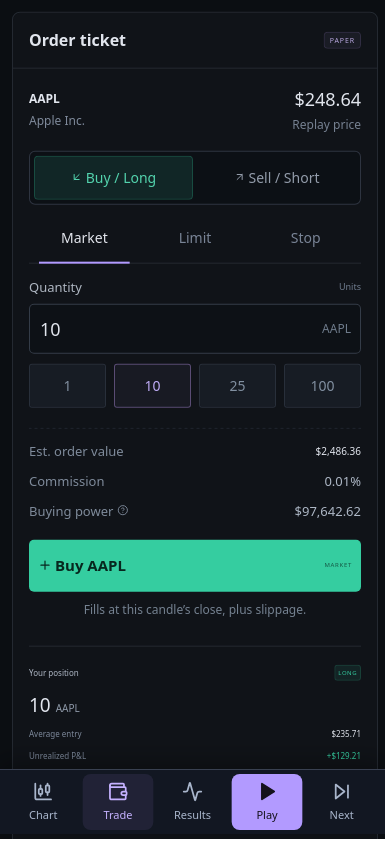
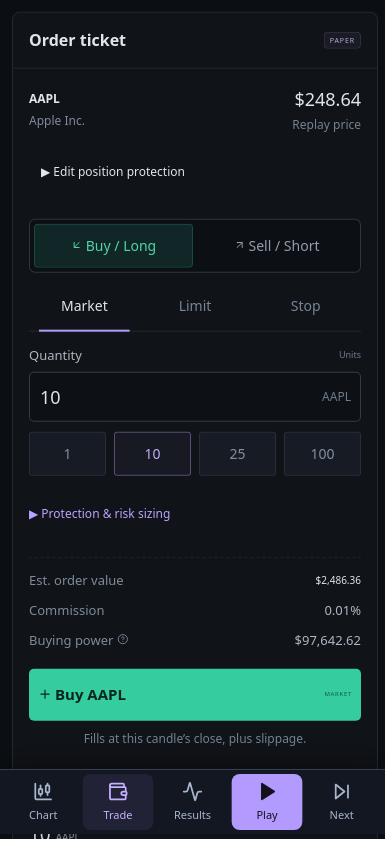
Document practice and live workflows with updated screenshots

diff --git a/docs/practice-and-live.md b/docs/practice-and-live.md
@@ -1,0 +1,57 @@
+# Practice, research and live workspaces
+
+Open **Practice & research** above the chart to access Sessions, Journal, Analytics, Blind and Strategies. The existing replay ticket, indicators, comparisons and drawing tools remain available on the main workspace.
+
+## Protected orders and position sizing
+
+Expand **Protection & risk sizing** in the order ticket. Choose a stop-loss and/or take-profit, expressed as price or a percentage; targets can also use a risk multiple. Manual quantity remains available. Cash-risk and percentage-equity modes calculate quantity from entry-to-stop distance, estimated fees and slippage, round down to the selected quantity step and cap exposure at 1× equity. Percentage risk defaults to 1%.
+
+Filled entries can create reduce-only stop and target children. They protect the aggregate position, resize after partial reductions, cancel when flat and cancel their sibling when one fills. Use the protection editor or drag the chart's stop/target handle to change a level. Touch handles support pointer dragging; keyboard users can focus a handle and use arrow keys.
+
+Candle OHLC cannot reveal the path inside a candle. If both exits are touched, the simulator uses the stop first and flags ambiguity. Gap-through stops fill at the opening price with configured costs. An intrabar pending entry can hit its stop on the same candle; its target cannot fill on that candle unless the entry occurred at the open. Edits apply prospectively. Market orders in manual replay fill at the revealed close.
+
+## Saved sessions and journal
+
+Save a named session to place it in the server library. Saved accounts and chart preferences are automatically updated. Search, resume, rename, duplicate, archive, delete or export a session. ZIP export includes its snapshot, notes and attached chart images; import creates a separate session. **Import existing browser session** migrates the current local workspace, with duplicate-import protection.
+
+One device controls a saved session at a time. Other devices can view it; **Take control** transfers control explicitly. Revision checks prevent stale writes, command IDs prevent duplicate trades, and server events update viewers. This is a trusted, shared deployment without individual user accounts.
+
+The journal groups trades from flat to flat. Add setup names, tags, entry/exit rationale and notes. Capture the current chart manually or enable automatic captures for new fills while the saved replay workspace is open. Images include visible chart layers and a ticker/time/mode caption; ZIP exports retain them. Journal metadata and trade statistics export as CSV.
+
+Analytics includes net P&L, expectancy, profit factor, win rate, win/loss streaks, holding time, drawdown and duration, R multiples, and MAE/MFE. Partial closes and reversals allocate fees to their trade episodes. MAE/MFE are candle-based price excursions, not tick-level execution measurements. Group results by direction, setup, tags, weekday or hour; market timezone is used where available.
+
+## Blind exercises
+
+Choose an exercise length (100 candles by default). Replay chooses a random eligible starting point, saves its seed and hides calendar dates and the surrounding dataset's progress. Ticker identity stays visible. The main chart and analysis panels reveal only information available at the replay clock. **Finish exercise** cancels pending orders, closes the position at the revealed close and ends the exercise. Browser-held datasets are not a tamper-proof examination system.
+
+## Two, three or four charts
+
+Select **Charts** above the workspace. Desktop layouts use two columns; three charts put the last panel across the bottom, and four form a 2×2 grid. Phone layouts stack panels vertically with at least 320px of chart height, panel jump controls and per-analysis-panel fullscreen.
+
+The main panel owns the traded instrument and replay clock. Analysis panels have their own interval, indicator instances, drawings, chart type, scale and comparisons. There are at most six unique symbols across the workspace and 24 live symbol/interval streams. Add comparison symbols from the main panel, then choose them in analysis panels. Crosshair and visible-range synchronization have separate toggles.
+
+Higher-interval candles appear only after their completion time. Known exchanges use trading calendars, including session closes; unknown calendars conservatively use the next candle's timestamp. This can delay the newest candle when a reliable completion time is unavailable.
+
+## Live mode
+
+**Live is off by default**, including after reload, session restore and server restart. Clicking Live starts a separate paper account; clicking it again returns to the previous replay account. Saved live accounts can be resumed from the library by explicitly enabling Live.
+
+The server shares streams by symbol and interval. Poll cadence is half the interval: 1m every 30 seconds, 5m every 150 seconds, 1d every 12 hours. Monthly cadences use calendar-month duration. Provider jobs run serially with at least three seconds between starts, including historical cache misses. Six due symbols are therefore spread across roughly an 18-second polling cycle, plus provider latency. Clients receive events instead of independently polling Yahoo.
+
+A provider 429/throttle response applies a shared cooldown: 30, 60, 120, 240, 480 and then 900 seconds, plus up to 20% jitter. A longer Retry-After is honored. Three successful provider requests reset the throttle streak. Cooldowns survive process restarts; refresh does not bypass them.
+
+Provisional candles can appear on charts, but never execute orders. Live market commands execute at the next observed completed candle's close. Limit/stop orders submitted during a candle become eligible on subsequent candles, so earlier highs/lows cannot create retrospective fills. Existing pending orders can be cancelled immediately; bracket edits apply on a completed-candle boundary. Live order status exposes queued commands, including cancellation before they execute.
+
+Visible clients renew a 60-second lease every 15 seconds. When every client disconnects or remains hidden long enough, monitoring pauses. Explicit resume acknowledges the gap and marks skipped history without retrospective fills. Recoverable provider outages process completed candles chronologically; missing history outside the provider's window requires gap acknowledgement. Substantial adjusted-history changes pause the account for a new baseline. Yahoo is a polling data source, not a guaranteed real-time exchange feed.
+
+## Visual strategies and parameter searches
+
+Start from SMA crossover, RSI mean-reversion or Donchian breakout. Define long/short entry and exit rules with AND/OR conditions, price fields, constants and outputs from the 50 indicators. Operators include above, below, cross above and cross below. **Bars ago** permits prior-candle comparisons. Configure quantity or percentage risk, protection, fees and slippage.
+
+Signals use completed candles and fill at the next open. Strategies use the same order/protection engine as manual replay, with one net position and no pyramiding. Opposing signals and ambiguous brackets have deterministic handling.
+
+Backtests run in a worker, separate from the API's trading engine requests. Inputs are limited to 100,000 candles and parameter searches to 500 combinations. Add parameter paths with minimum, maximum and step. The default chronological split is 70% training / 30% test. Candidates are ranked on training results only; the chosen strategy starts a fresh account on the test segment, retaining earlier candles for indicator warmup. Review progress, cancel work, inspect candidate results, compare saved runs and export trades/results. Run snapshots retain strategy inputs, dataset hash and engine version. An interrupted worker is reported explicitly rather than silently rerun.
+
+## Operations
+
+See [Docker deployment](docker.md) for the persistent volume, backup and startup behavior. The API, Node engine and frontend must all be available for server sessions, Live and strategies; the unsaved local replay remains usable without them. Native iOS packaging is still a starter project; automated mobile coverage uses iPhone 13 WebKit emulation.

diff --git a/README.md b/README.md
@@ -18,12 +18,18 @@ A self-hosted market replay and paper trading app. Load historical prices, revea
 - **Volume inspection:** hover a candle or volume bar to see its exact volume and timestamp; tap or long-press to inspect on mobile.
 - **50 technical indicators:** searchable menu, multiple instances, configurable periods and colors, overlays and oscillator panes.
 - **12 drawing tools:** trendlines, rays, horizontal and vertical lines, Fibonacci tools, and more, with undo and redo.
-- **Compare up to five tickers:** one base instrument plus four comparison tickers, using the same interval. Keep the base price readout alongside normalized comparisons.
+- **Compare six tickers:** one base instrument plus five comparison tickers, using the same interval. Keep the base price readout alongside normalized comparisons.
 - **Flexible scales:** price, percentage, indexed-to-100, ratio, log return, z-score, and min–max normalization, plus logarithmic price spacing where applicable.
 - **Mobile layout:** touch controls, an iPhone 13 browser test suite, and a SwiftUI/WKWebView starter for a future self-hosted iOS app.
-- **Local persistence:** session and chart settings survive a reload in the same browser.
+- **Protected trades and risk sizing:** stop-loss/take-profit OCO brackets, draggable levels, fixed cash or percentage-equity risk budgets.
+- **Session library:** server-saved accounts and chart preferences, controller handoff between devices, ZIP import/export and browser-session migration.
+- **Trading journal and analytics:** notes, tags, setup names, chart screenshots, flat-to-flat trade statistics, R multiples, MAE/MFE and CSV exports.
+- **Blind exercises:** random fixed-length replay with hidden dates, saved seeds and explicit finish.
+- **Up to four synchronized charts:** independent intervals, indicators, drawings and comparisons; desktop grids and stacked phone panels.
+- **Visual strategies:** indicator-based rules, templates, worker-backed backtests and up to 500 parameter combinations with chronological training/test separation.
+- **Optional Live mode:** shared yfinance polling, provisional candles, a separate closed-bar paper account, spaced requests and exponential throttling backoff. Live always starts off.
 
-This is a manual replay/backtesting workspace. It does not execute Pine Script strategies or connect to a live broker.
+Strategies use the built-in visual rule builder. Replay does not execute Pine Script or connect to a live broker. Read the [practice and live guide](docs/practice-and-live.md) for execution rules and limits.
 
 ## Quick start
 
@@ -38,7 +44,7 @@ python3 -m venv .venv
 ./scripts/dev.sh
 ```
 
-Open **[http://localhost:5173](http://localhost:5173)**. The launcher starts the frontend and API together; Ctrl+C stops both. The initial synthetic demo is ready immediately. Loading real historical data requires an internet connection to Yahoo Finance.
+Open **[http://localhost:5173](http://localhost:5173)**. The launcher starts the frontend, API and strategy engine together; Ctrl+C stops all three. The initial synthetic demo is ready immediately. Loading real historical data requires an internet connection to Yahoo Finance.
 
 <details>
 <summary>Run the services separately (including Windows)</summary>
@@ -48,6 +54,9 @@ Create the virtual environment and install dependencies first. Run these command
 ```bash
 # API — Linux/macOS
 .venv/bin/python -m uvicorn backend.main:app --reload --host 127.0.0.1 --port 8000
+
+# Shared simulation engine — separate terminal
+npm run engine
 
 # Frontend
 npm run dev -- --port 5173 --strictPort
@@ -68,6 +77,12 @@ On Windows, use `python -m venv .venv`, then `.venv\Scripts\python.exe` in place
 Only revealed candles are available to the simulation. Seeking forward processes the intervening candles; rewinding or replacing the dataset resets the paper account. See the [user guide](docs/user-guide.md) for fill rules, fees, normalization formulas, indicators, and drawing tools.
 
 ## Screenshots
+
+### Multiple charts and visual strategies
+
+![Four synchronized chart panels](docs/images/replay-four-charts.png)
+
+![Visual strategy editor](docs/images/replay-strategy-builder.png)
 
 ### Indicator menu
 
@@ -98,12 +113,15 @@ Build the frontend, then start the backend to serve both the UI and API from one
 
 ```bash
 npm run build
+# Keep this running in a separate terminal:
+npm run engine
+
 .venv/bin/python -m uvicorn backend.main:app --host 127.0.0.1 --port 8000
 ```
 
 Open [http://127.0.0.1:8000](http://127.0.0.1:8000). The `dist/` build must exist when the backend starts. For remote access, put this service behind an HTTPS reverse proxy. See the [hosting and iOS WebView guide](docs/ios-webview.md) for deployment details and the [SwiftUI starter](ios/ReplayApp.swift).
 
-The app has no built-in user authentication. Keep personal deployments private or add authentication at the reverse proxy. Browser storage is local to each device and origin; there is no account synchronization.
+The app has no built-in user authentication. Keep personal deployments private or add authentication at the reverse proxy. Save a session to the server library to resume it across devices. Unsaved browser workspaces remain local to their browser and origin. SQLite stores sessions, journal images and strategy runs in the persistent Docker volume. This is a shared library for a trusted user, not a multi-tenant service.
 
 ## Development and tests
 

diff --git a/docs/user-guide.md b/docs/user-guide.md
@@ -1,3 +1,5 @@
+For the server library, protected orders, journal, blind exercises, synchronized panels, visual strategies and Live mode, see the [practice and live guide](practice-and-live.md).
+
 # Replay · Market Lab
 
 A local web application for replaying historical candles, placing manual paper orders, and tracking trading performance. It combines React, TypeScript, and [TradingView Lightweight Charts](https://tradingview.github.io/lightweight-charts/) with a FastAPI service that retrieves Yahoo Finance prices through [yfinance](https://ranaroussi.github.io/yfinance/).
@@ -13,7 +15,7 @@ npm install
 ./scripts/dev.sh
 ```
 
-Open [http://localhost:5173](http://localhost:5173). The launcher starts the frontend on port 5173 and the API on port 8000. Ctrl+C stops both servers and their child processes. If either server exits, the other is stopped as well. The launcher is for Bash on Linux/macOS.
+Open [http://localhost:5173](http://localhost:5173). The launcher starts the frontend on port 5173, the API on port 8000 and the simulation engine on port 8003. Ctrl+C stops all three services and their child processes. If one service exits, the others are stopped as well. The launcher is for Bash on Linux/macOS.
 
 You can also run the two services in separate terminals:
 
@@ -65,9 +67,9 @@ The statistical window is recalculated during replay, so earlier chart values ar
 
 Display preferences survive reloads, base-market changes, and benchmark removal. **Reset chart display** returns to price/linear with a 50-candle window. Existing active benchmark scale preferences migrate to the shared chart controls. Trading, order prices, OHLC readouts, P&L, and drawing anchors retain original quote units; only the chart view changes. Price indicators follow the chart normalization, while oscillators and volume retain their own scales.
 
-### Compare up to five tickers
+### Compare up to six tickers
 
-Click **Compare** in the chart toolbar and enter `SPY`, `QQQ`, or another Yahoo Finance ticker. Click it again to add another comparison, up to **five tickers total: the base plus four comparisons**. The button shows the current count and disables at the limit; remove a comparison to free a slot. Duplicate symbols and the base symbol are rejected. Each comparison loads the base ticker's interval and history range and has its own line color, edit/remove controls, loading state, and error handling.
+Click **Compare** in the chart toolbar and enter `SPY`, `QQQ`, or another Yahoo Finance ticker. Click it again to add another comparison, up to **six tickers total: the base plus five comparisons**. The button shows the current count and disables at the limit; remove a comparison to free a slot. Duplicate symbols and the base symbol are rejected. Each comparison loads the base ticker's interval and history range and has its own line color, edit/remove controls, loading state, and error handling.
 
 Use the shared chart display controls above to normalize all tickers: price, percentage, indexed, ratio, log return, Z-score, and min–max are supported. Adding a first benchmark defaults to percentage comparison if you have not already chosen a display setting. Explicit choices, including base-only logarithmic mode, are preserved.
 

diff --git a/docs/docker.md b/docs/docker.md
@@ -6,7 +6,7 @@ Install Docker Engine and the Docker Compose plugin. From the repository root:
 docker compose up -d --build --wait
 ```
 
-Open **http://localhost:8080** on the host, or **http://YOUR_PC_ADDRESS:8080** from another device on your network. The production image builds the frontend and serves it with the API from one origin. It runs as a non-root user and includes an API health check.
+Open **http://localhost:8080** on the host, or **http://YOUR_PC_ADDRESS:8080** from another device on your network. Compose starts the API/frontend service and a private Node simulation worker. The engine has no published host port. It runs as a non-root user and includes an API health check.
 
 The default binding allows access from your network. To restrict it to this PC or change ports, create an untracked `.env` file:
 
@@ -39,6 +39,17 @@ docker compose logs --tail=100
 curl http://localhost:8080/api/health
 ```
 
-Session data, paper trades, and chart settings live in browser storage, not the container. Rebuilding the container preserves those settings as long as you use the same browser and URL origin. Moving from development port 5173 to port 8080 starts a separate browser workspace. The server's market-data cache is temporary; no database volume is required.
+Server sessions, trades, journal screenshots and strategy runs live in SQLite in the `replay-data` volume mounted at `/data`. Normal container rebuilds preserve it. Do not use `docker compose down -v` unless you intend to delete this library. Unsaved browser workspaces still depend on the browser and URL origin; use **Import existing browser session** to move one into the library.
+
+Create a consistent backup while the app is running:
+
+```bash
+docker compose exec replay python -m backend.backup /data/backup.zip
+docker compose cp replay:/data/backup.zip ./replay-backup.zip
+```
+
+To restore on this deployment, first retain a current backup. Stop only Replay, extract `replay.sqlite` and the optional `provider-cooldown.json` from the chosen backup, then copy them into the stopped app container's `/data` directory. Remove old `replay.sqlite-wal` and `replay.sqlite-shm` files before replacement (with the app stopped). Start with `docker compose up -d --wait`. Keep restored files writable by UID/GID 10001. Alternatively use individual session ZIP import in the UI without stopping the app.
+
+Live polling always requires explicit activation after a restart; stored paper accounts can be resumed from the library. Yahoo cooldown state also survives restarts.
 
 The health check reports API availability. Restart policies handle process exits, but do not restart a still-running container merely because it becomes unhealthy.

diff --git a/docs/implementation-progress.md b/docs/implementation-progress.md
@@ -1,0 +1,20 @@
+# Implemented trading workspace
+
+The approved feature groups are available in the application:
+
+- Stop-loss/take-profit OCO protection and risk-based position sizing.
+- Persistent session library, controller handoff and browser-session migration.
+- Journal notes, tags, chart images and portable session ZIP archives.
+- Flat-to-flat analytics, grouping and exports.
+- Seeded, fixed-length blind replay exercises.
+- Up to four independently configured, synchronized charts and six unique symbols.
+- Optional shared Live polling, completed-bar simulation, leases, spacing and backoff.
+- Visual strategy rules, templates, worker jobs and parameter searches with training/test separation.
+
+Usage and execution assumptions are documented in [Practice and live workspaces](practice-and-live.md).
+The persistent two-service deployment, automatic startup and backups are documented in [Docker deployment](docker.md).
+
+Release validation includes unit and API tests, the complete desktop/iPhone browser suite,
+additional production-container smoke tests, a real yfinance 1-minute data fetch,
+Live initialization, saved-account recovery after a container restart and a SQLite backup integrity check.
+The native iOS wrapper remains a starter; physical-device/Xcode verification is outside this web release.
